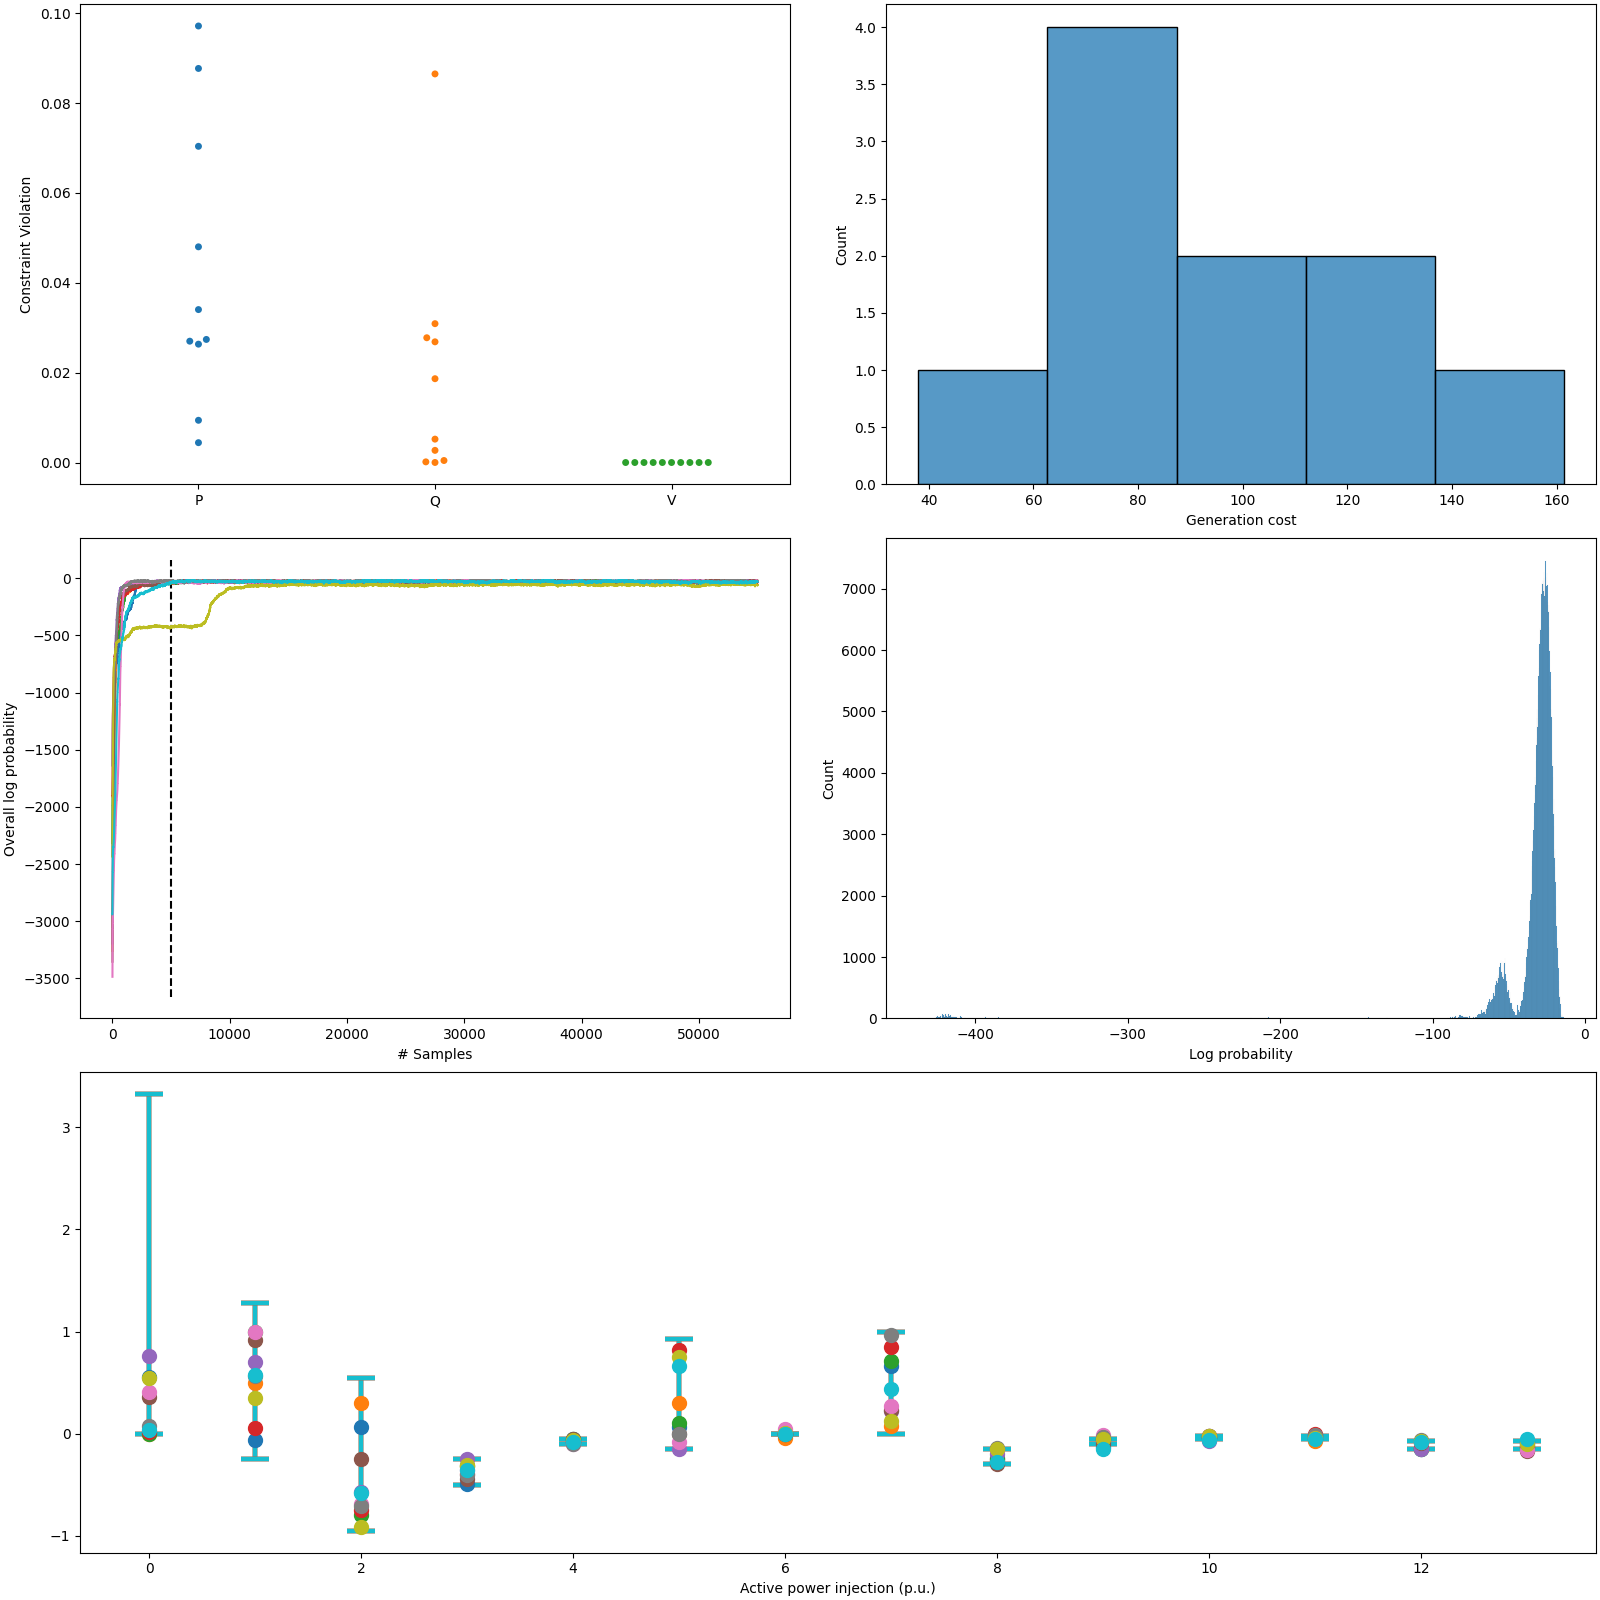
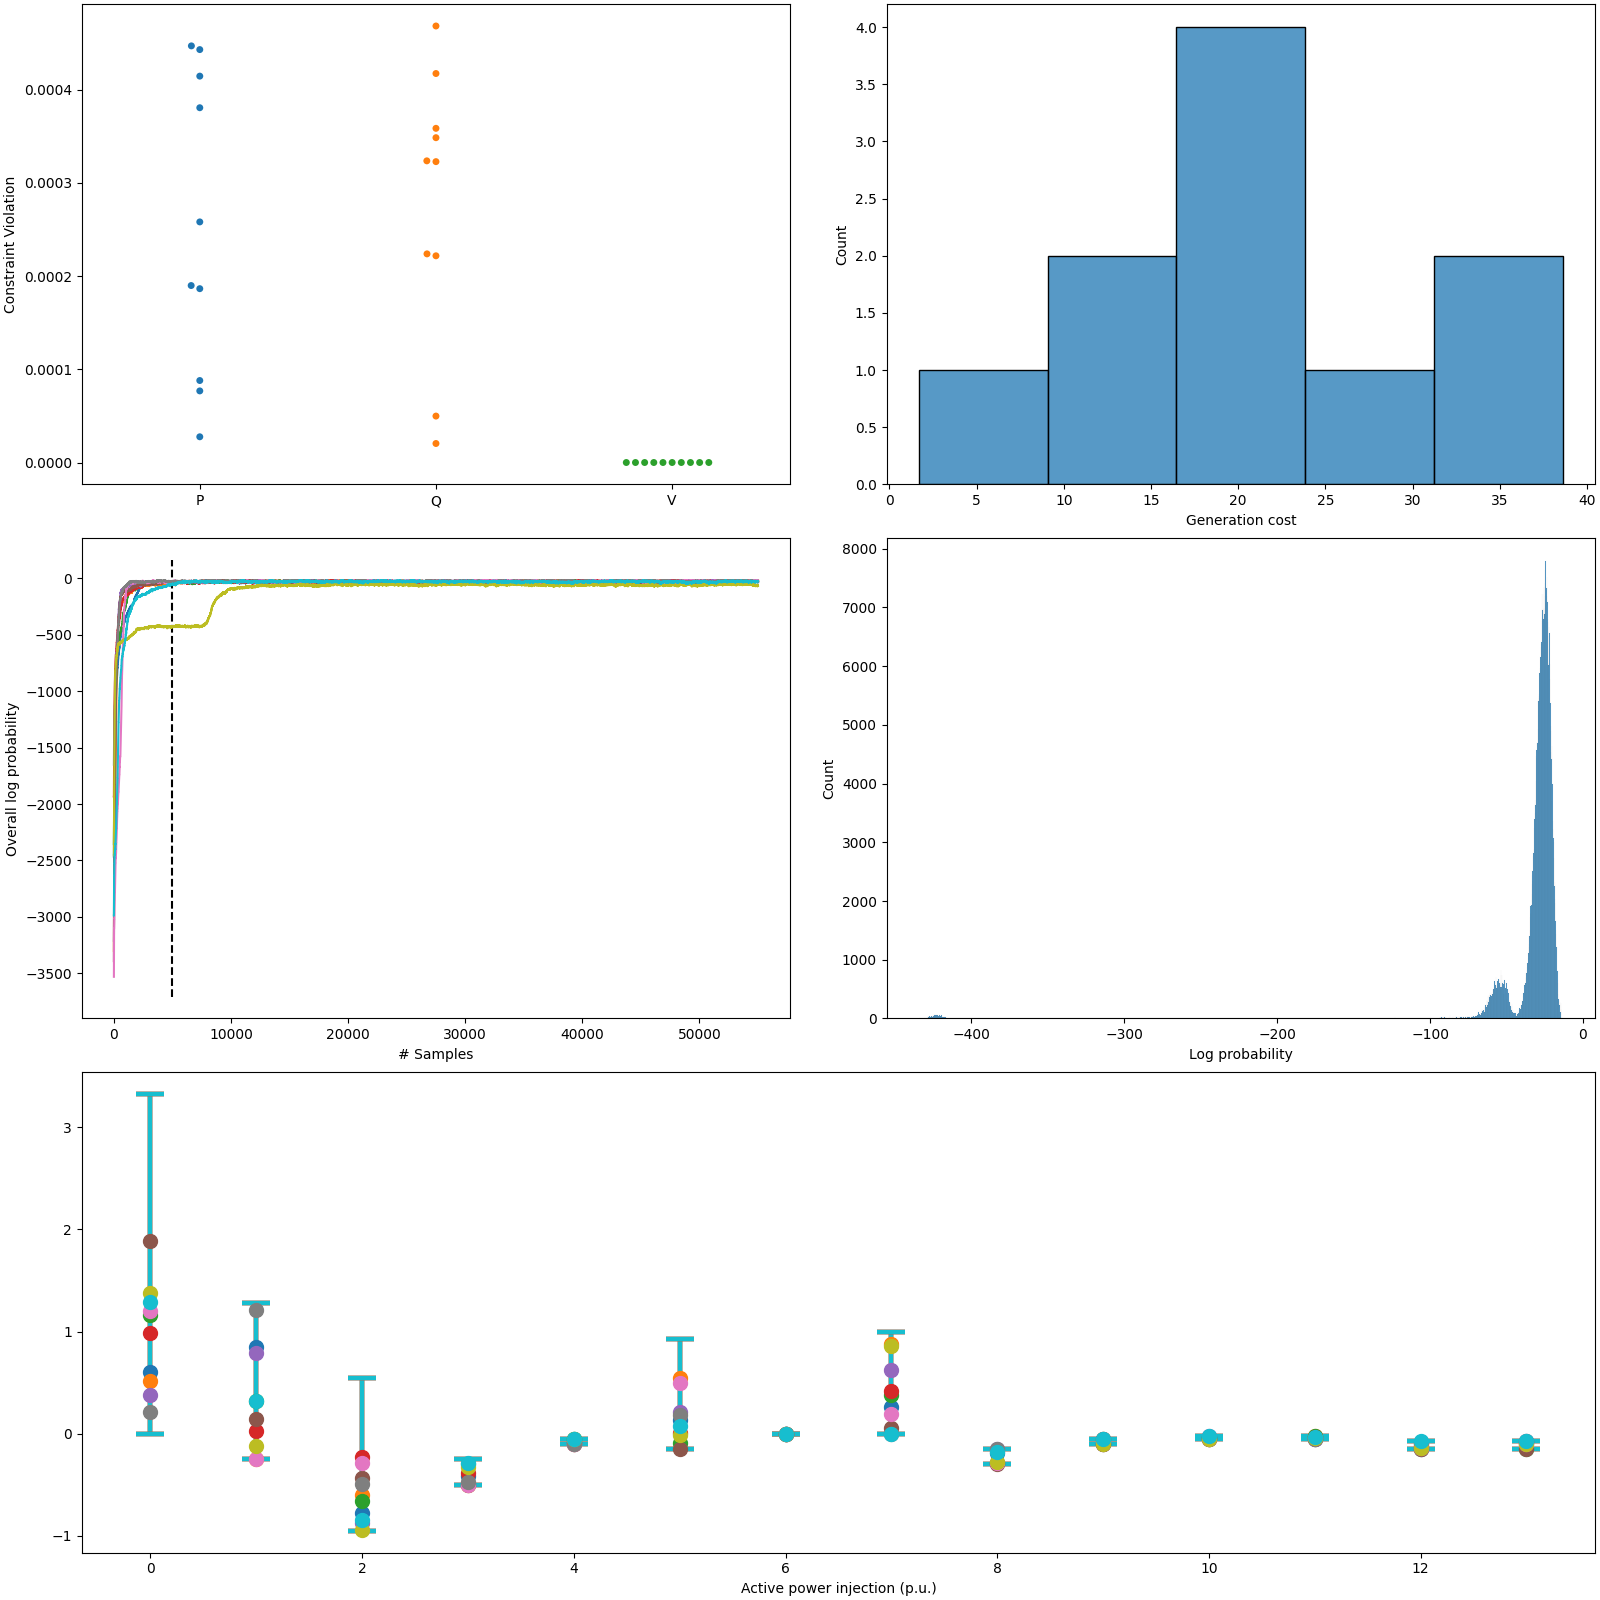
Fine-tuning ACOPF solution for 14 bus. Works well now!

diff --git a/architect/experiments/power_systems/acopf/3_bus_acopf.py b/architect/experiments/power_systems/acopf/3_bus_acopf.py
@@ -49,19 +49,23 @@ def inference_loop(
 if __name__ == "__main__":
     # Make the test system
     L = 100.0
+    repair_steps = 5
+    repair_lr = 1e-6
     sys = make_3_bus_network(L)
 
     # Let's start by trying to solve the ACOPF problem for the nominal system
     network = sys.nominal_network
     prior_logprob = sys.dispatch_prior_logprob
     # Remember the negative to make lower costs more likely!
-    posterior_logprob = lambda dispatch: -sys(dispatch, network).potential
+    posterior_logprob = lambda dispatch: -sys(
+        dispatch, network, repair_steps, repair_lr
+    ).potential
 
     # Make a MALA kernel for MCMC sampling
-    mala_step_size = 1e-4
-    n_samples = 100_000
-    warmup_samples = 10_000
-    n_chains = 100
+    mala_step_size = 1e-5
+    n_samples = 50_000
+    warmup_samples = 5_000
+    n_chains = 10
     mala = blackjax.mala(
         lambda x: prior_logprob(x) + posterior_logprob(x), mala_step_size
     )
@@ -93,10 +97,19 @@ if __name__ == "__main__":
         lambda leaf: leaf[jnp.arange(0, n_chains), most_likely_idx],
         samples,
     )
-    result = jax.vmap(sys, in_axes=(0, None))(best_dispatch, network)
+    result = jax.vmap(sys, in_axes=(0, None, None, None))(
+        best_dispatch, network, 100, repair_lr
+    )
 
     # Plot the results
-    fig, axs = plt.subplots(2, 2, figsize=(16, 8))
+    fig = plt.figure(figsize=(16, 16), constrained_layout=True)
+    axs = fig.subplot_mosaic(
+        [
+            ["constraints", "cost"],
+            ["trace", "logprob_hist"],
+            ["generation", "generation"],
+        ]
+    )
 
     # Plot the violations at the best dispatch from each chain
     sns.swarmplot(
@@ -105,29 +118,52 @@ if __name__ == "__main__":
             result.Q_violation,
             result.V_violation,
         ],
-        ax=axs[0, 0],
+        ax=axs["constraints"],
     )
-    axs[0, 0].set_xticklabels(["P", "Q", "V"])
-    axs[0, 0].set_ylabel("Constraint Violation")
+    axs["constraints"].set_xticklabels(["P", "Q", "V"])
+    axs["constraints"].set_ylabel("Constraint Violation")
 
-    sns.histplot(x=result.generation_cost, ax=axs[0, 1])
-    axs[0, 1].set_xlabel("Generation cost")
+    sns.histplot(x=result.generation_cost, ax=axs["cost"])
+    axs["cost"].set_xlabel("Generation cost")
 
     # Plot the chain convergence
-    axs[1, 0].plot(logprobs.T)
-    axs[1, 0].set_xlabel("# Samples")
-    axs[1, 0].set_ylabel("Overall log probability")
-    axs[1, 0].vlines(
-        warmup_samples, *axs[1, 0].get_ylim(), colors="k", linestyles="dashed"
+    axs["trace"].plot(logprobs.T)
+    axs["trace"].set_xlabel("# Samples")
+    axs["trace"].set_ylabel("Overall log probability")
+    axs["trace"].vlines(
+        warmup_samples, *axs["trace"].get_ylim(), colors="k", linestyles="dashed"
     )
 
     # Plot the logprob histogram
-    sns.histplot(x=logprobs[:, warmup_samples:].flatten(), ax=axs[1, 1])
-    axs[1, 1].set_xlabel("Log probability")
+    sns.histplot(x=logprobs[:, warmup_samples:].flatten(), ax=axs["logprob_hist"])
+    axs["logprob_hist"].set_xlabel("Log probability")
+
+    # Plot the generations along with their limits
+    bus = jnp.arange(sys.n_bus)
+    P_min, P_max = sys.bus_active_limits.T
+    for i in range(n_chains):
+        P = result.P[i, :]
+        lower_error = P - P_min
+        upper_error = P_max - P
+        errs = jnp.vstack((lower_error, upper_error))
+        axs["generation"].errorbar(
+            bus,
+            P,
+            yerr=errs,
+            linestyle="None",
+            marker="o",
+            markersize=10,
+            linewidth=3.0,
+            capsize=10.0,
+            capthick=3.0,
+        )
+    axs["generation"].set_xlabel("Active power injection (p.u.)")
 
     plt.savefig(
         (
             f"plts/acopf/3bus/L_{L:0.1e}_{n_samples}_samples_"
-            f"{n_chains}_chains_lr_{mala_step_size:0.1e}.png"
+            f"{n_chains}_chains_mala_step_{mala_step_size:0.1e}_"
+            f"repair_steps_{repair_steps}_repair_lr_{repair_lr:0.1e}"
+            ".png"
         )
     )

diff --git a/architect/systems/power_systems/example_systems/acopf/ieee_14_bus.py b/architect/systems/power_systems/example_systems/acopf/ieee_14_bus.py
@@ -136,7 +136,6 @@ def make_14_bus_network(penalty: float = 10.0) -> ACOPF:
     P_load_min = jnp.array([12.5, 45.0, 25.0, 5.0, 7.5, 15.0, 5.0, 2.5, 2.5, 7.5, 7.5])
     Q_load_max = jnp.zeros_like(P_load_max) + 20.0
     Q_load_min = -Q_load_max
-    load_benefit = 100.0 + jnp.zeros_like(P_load_max)
     reactive_power_cost = jnp.zeros((n_bus,))
 
     # Convert these into per-bus limits
@@ -160,7 +159,6 @@ def make_14_bus_network(penalty: float = 10.0) -> ACOPF:
 
     bus_P_linear_costs = jnp.zeros((n_bus,))
     bus_P_linear_costs = bus_P_linear_costs.at[generator_buses].add(gen_linear_costs)
-    bus_P_linear_costs = bus_P_linear_costs.at[load_buses].add(-load_benefit)
 
     bus_P_quad_costs = jnp.zeros((n_bus,))
     bus_P_quad_costs = bus_P_quad_costs.at[generator_buses].add(gen_quad_costs)

diff --git a/architect/experiments/power_systems/acopf/14_bus_acopf.py b/architect/experiments/power_systems/acopf/14_bus_acopf.py
@@ -63,8 +63,8 @@ if __name__ == "__main__":
 
     # Make a MALA kernel for MCMC sampling
     mala_step_size = 1e-5
-    n_samples = 50_000
-    warmup_samples = 5_000
+    n_samples = 30_000
+    warmup_samples = 20_000
     n_chains = 10
     mala = blackjax.mala(
         lambda x: prior_logprob(x) + posterior_logprob(x), mala_step_size
@@ -98,7 +98,7 @@ if __name__ == "__main__":
         samples,
     )
     result = jax.vmap(sys, in_axes=(0, None, None, None))(
-        best_dispatch, network, 100, repair_lr
+        best_dispatch, network, 10_000, repair_lr
     )
 
     # Plot the results

diff --git a/architect/systems/power_systems/example_systems/acopf/simple_3_bus.py b/architect/systems/power_systems/example_systems/acopf/simple_3_bus.py
@@ -34,7 +34,7 @@ def make_3_bus_network(penalty: float = 100.0) -> ACOPF:
         bus_reactive_limits=jnp.array([[-2.0, 2.0], [-2.0, 2.0], [-2.0, 2.0]]),
         bus_voltage_limits=jnp.array([[0.9, 1.1], [0.9, 1.1], [0.9, 1.1]]),
         # Costs
-        bus_active_linear_costs=jnp.array([-10.0, 5.0, 1.0]),
+        bus_active_linear_costs=jnp.array([0.0, 5.0, 1.0]),
         bus_active_quadratic_costs=jnp.array([0.0, 0.0, 0.0]),
         bus_reactive_linear_costs=jnp.array([0.0, 0.1, 0.1]),
         constraint_penalty=penalty,
